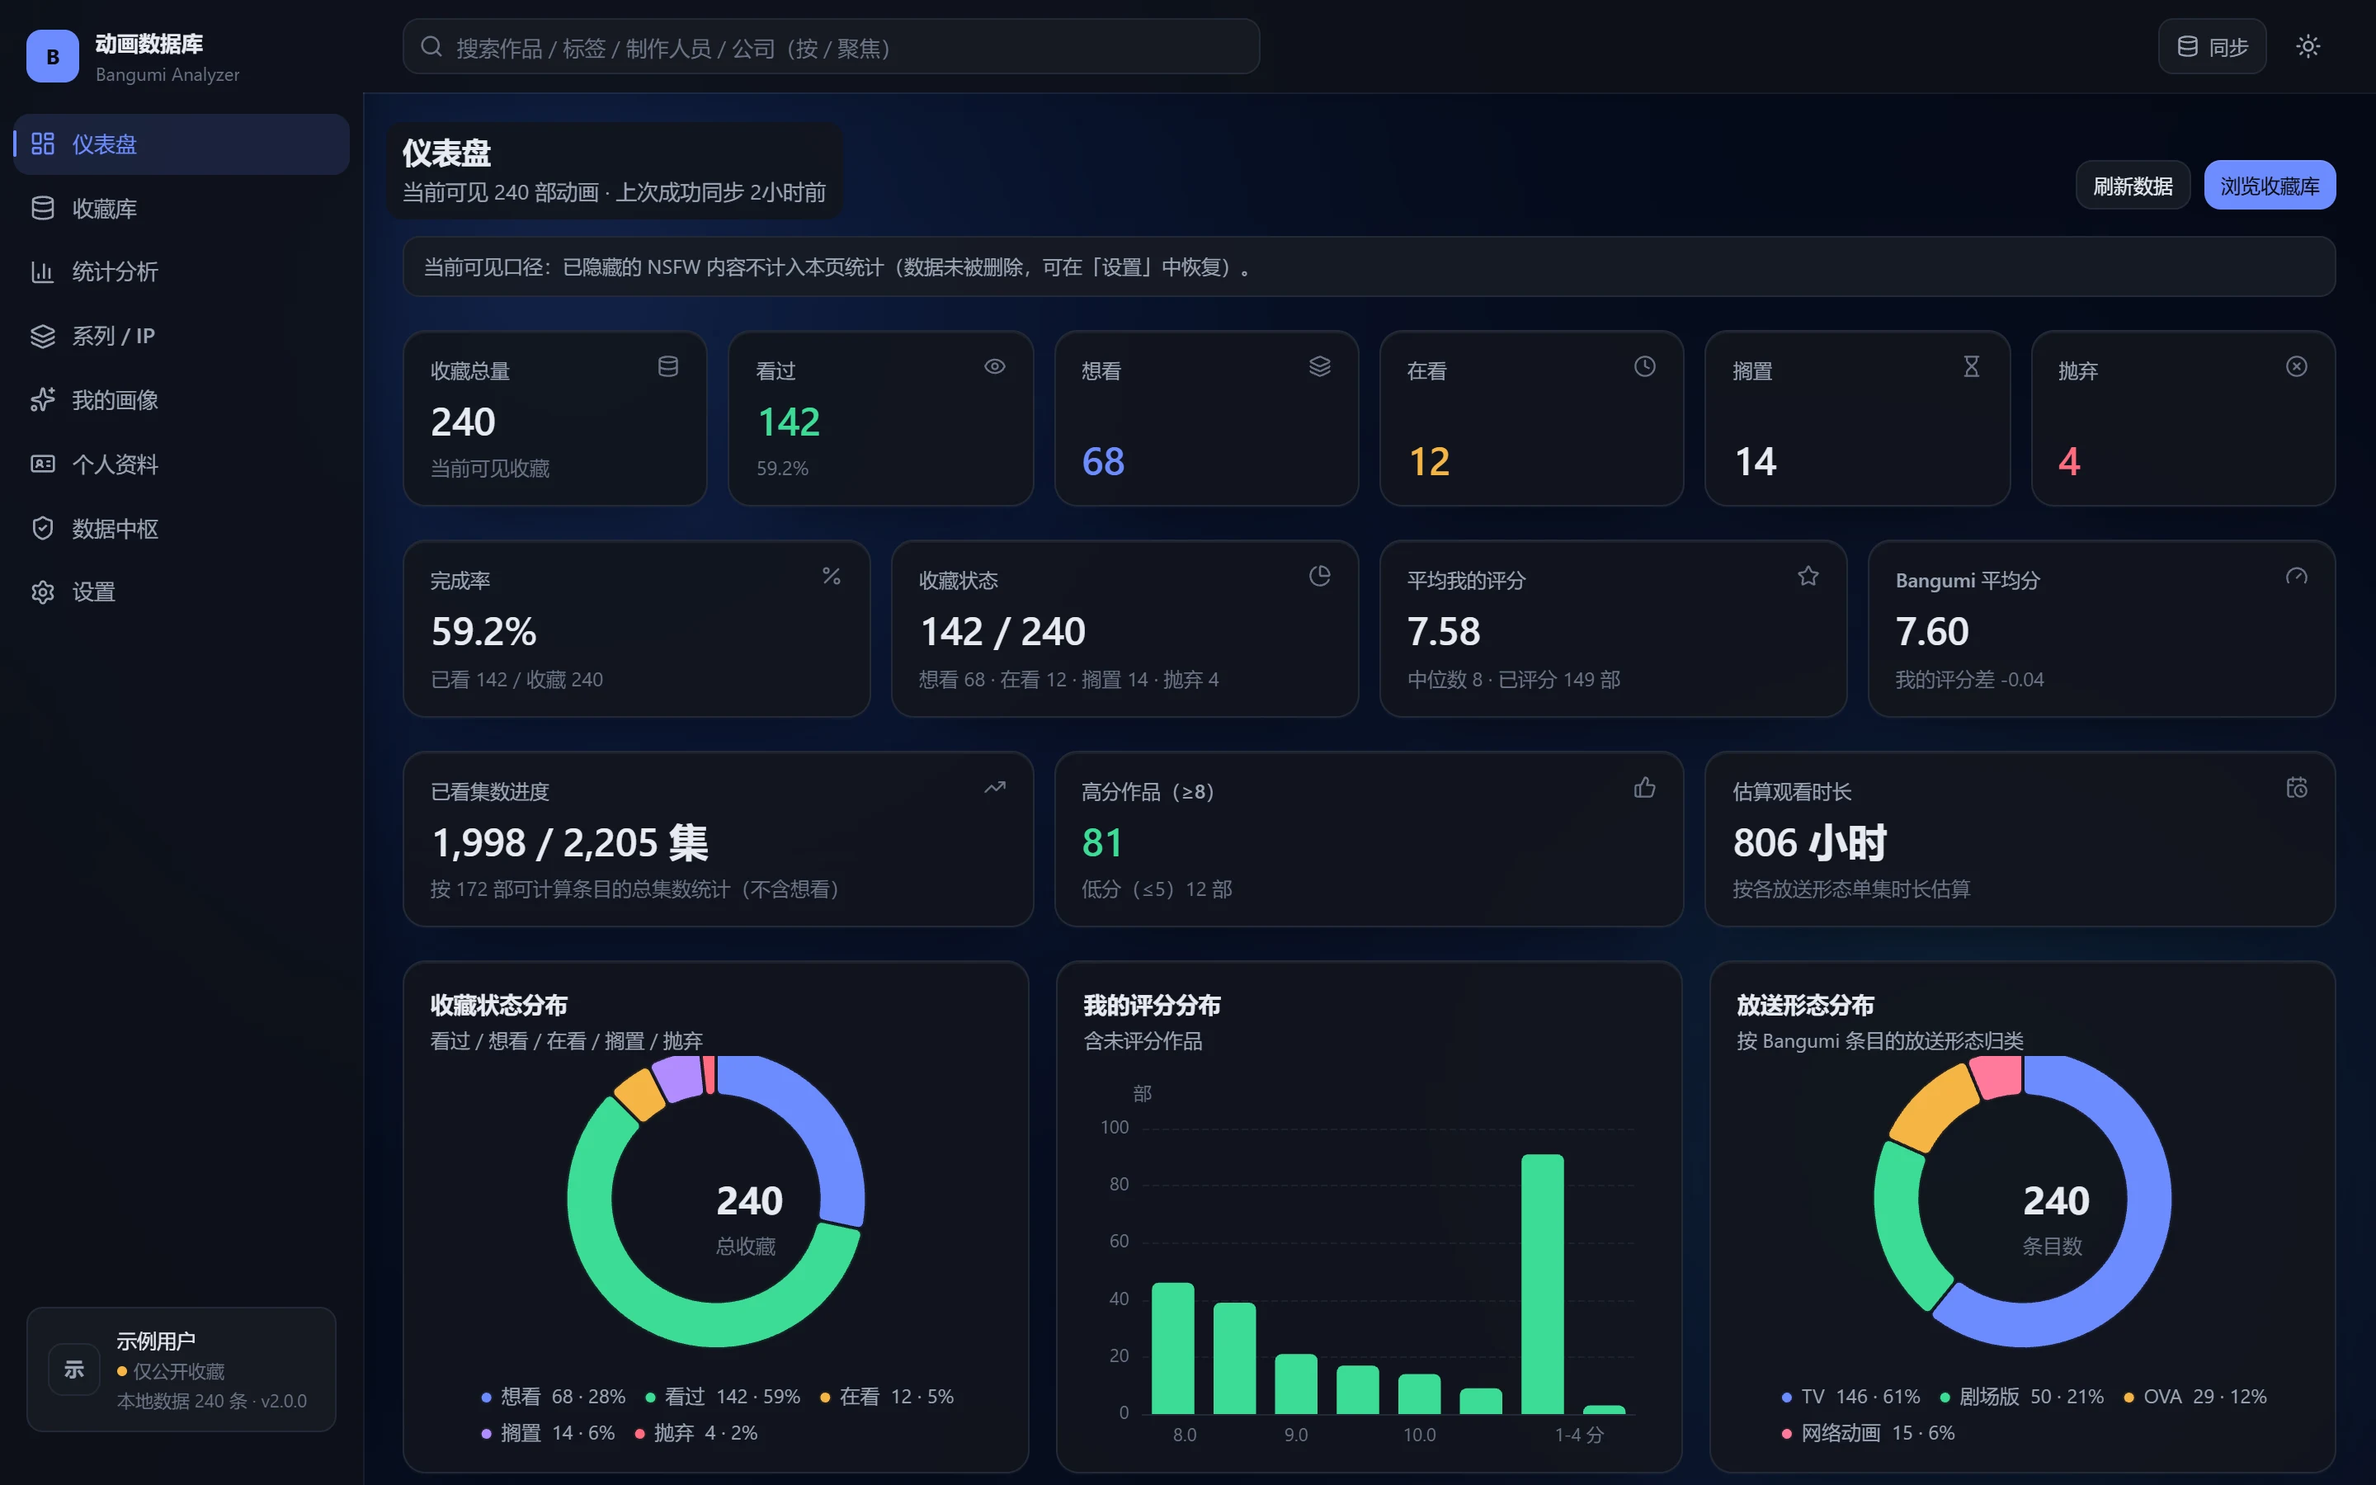
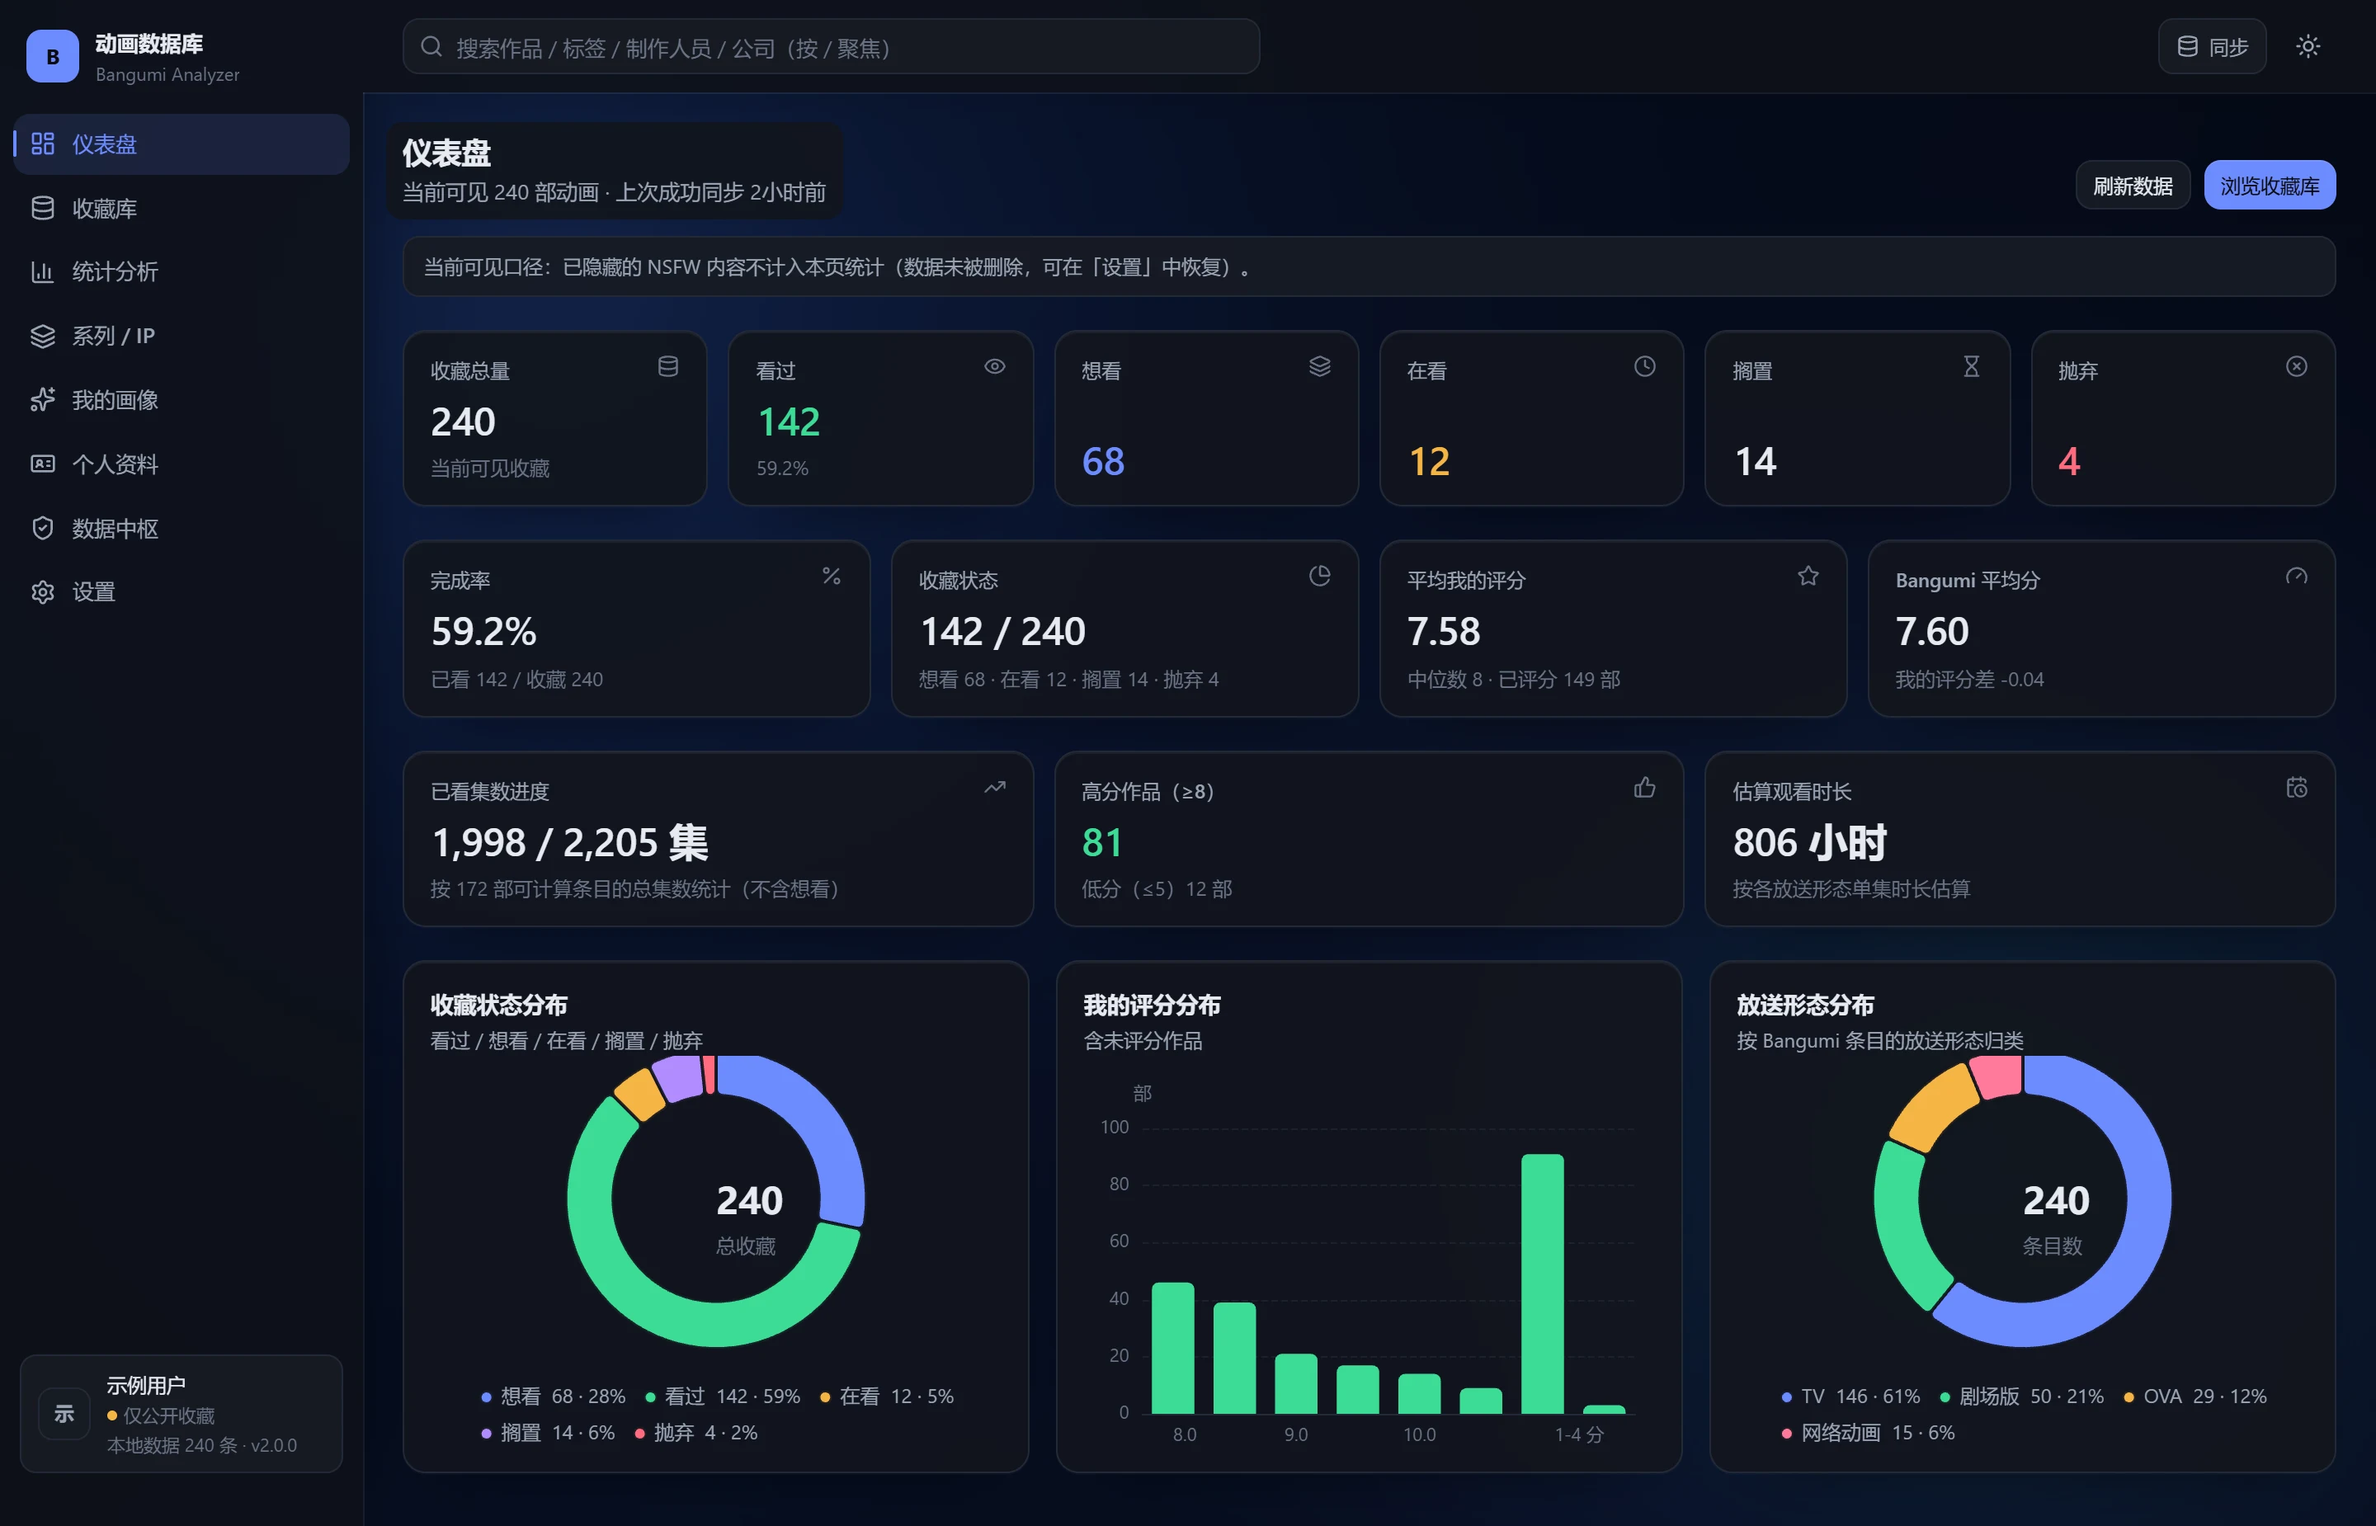
docs(readme): recapture unclipped v2.0.0 dashboard hero (1440x925, 32px bottom safe zone)

diff --git a/packages/web/src/components/layout/AppShell.tsx b/packages/web/src/components/layout/AppShell.tsx
@@ -87,7 +87,7 @@ function SidebarFooter() {
       to="/me"
       title={`个人资料：${displayName}`}
       className={cn(
-        'mx-4 mb-8 flex items-center gap-2.5 rounded-control border border-border bg-surface-2 px-3 py-2.5',
+        'mx-2 mb-2 flex items-center gap-2.5 rounded-control border border-border bg-surface-2 px-2.5 py-2',
         'transition-colors hover:border-border-strong hover:bg-surface-3',
         'focus-visible:outline-none focus-visible:ring-2 focus-visible:ring-ring',
       )}
